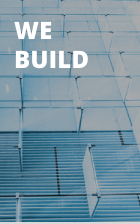
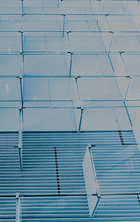
add new blocks&fix

diff --git a/index.html b/index.html
@@ -3,7 +3,7 @@
 <head>
     <meta charset="UTF-8">
     <meta name="viewport" content="width=device-width, initial-scale=1.0">
-    <title>Document</title>
+    <title>KONSTUCT</title>
     <link rel="stylesheet" href="css/normalize.css">
     <link rel="stylesheet" href="css/style.css">
     <link rel="preconnect" href="https://fonts.googleapis.com">
@@ -12,7 +12,7 @@
 </head>
 <body>
     <div class="bg">
-        <img src="img/bg.jpg" alt="bg" class="bg">
+        <img class="bg" src="img/bg.jpg" alt="bg">
     </div>
     <div class="container_bg">
         <div class="logo"><img src="img/logo.png" alt="logo"></div>
@@ -65,12 +65,20 @@
                             consectetuer adipiscing elit, sed diam nonummy 
                             nibh euismod tincidunt ut laoreet dolore magna aliquam erat.
                         </p>
-                        
                     </div>
                     <div class="hero_image">
-                        <img src="img/plan.jpg" alt="plan">
-                        <img src="img/manage.jpg" alt="manage">
-                        <img src="img/deliver.jpg" alt="deliver">
+                        <div class="hero_plan">
+                            WE <br>
+                            PLAN
+                        </div>
+                        <div class="hero_manage">
+                            WE <br>
+                            MANAGE
+                        </div>
+                        <div class="hero_deliver">
+                            WE <br>
+                            BUILD
+                        </div>
                     </div>
                 </div>
             </div>
@@ -94,7 +102,7 @@
                             </div>
                         </div>
                     </div>
-                    <button class="btn_adv">ALL SERVICES</button>
+                    <button class="btn"><a href="">ALL SERVICES</a></button>
                 </div>
                 <div class="advantages_row">
                     <div class="advantages_item_container">
@@ -130,6 +138,27 @@
                 </div>
             </div>
         </div>
+    </div>
+    <div class="bg_touch">
+        <img class="bg_touch" src="img/bg_touch.jpg" alt="bg_touch">
+    </div>
+    <div class="container_bg_touch">
+        <div class="tittle_touch">Want to build <br>
+            something amazing?
+        </div>
+        <button class="btn"><a href="\">GET IN TOUCH</a></button>
+    </div>
+    <div class="signup">
+        <div class="container">
+            <div class="container_sign">
+                <div class="sign_tittle">Newsletter Signup</div>
+                <div class="sign">
+                    <input class="custom-input" type="text" placeholder="Enter email...">
+                    <button class="btn"><a href="\">SIGNUP</a></button>
+                </div>
+            </div>
+        </div>
+        
     </div>
 </body>
 </html>

diff --git a/css/style.css b/css/style.css
@@ -4,7 +4,7 @@ body {
 }
 
 .container_bg {
-    padding: 41px 0 71px 0;
+    padding: 41px 0 71px;
     height: 100vh;
     display: flex;
     flex-direction: column;
@@ -164,6 +164,48 @@ body {
     justify-content: space-between;
     gap: 20px;
 }
+.hero_plan{
+    padding: 15px;
+    width: 140px;
+    height: 224px;
+    font-weight: 800;
+    font-size: 24px;
+    line-height: 121%;
+    letter-spacing: 0.01em;
+    color: #fff;
+    background-image: url('../img/plan.jpg');
+    box-sizing: border-box;
+}
+
+.hero_manage{
+    padding: 15px;
+    width: 140px;
+    height: 224px;
+    font-weight: 800;
+    font-size: 24px;
+    line-height: 121%;
+    letter-spacing: 0.01em;
+    color: #fff;
+    background-image: url('../img/manage.jpg');
+    box-sizing: border-box;
+}
+
+.hero_deliver{
+    padding: 15px;
+    width: 140px;
+    height: 224px;
+    font-weight: 800;
+    font-size: 24px;
+    line-height: 121%;
+    letter-spacing: 0.01em;
+    color: #fff;
+    background-image: url('../img/deliver.jpg');
+    box-sizing: border-box;
+}
+
+.advantages{
+    margin-bottom: 115px;
+}
 
 .advantages_row {
     display: flex;
@@ -240,8 +282,11 @@ body {
     letter-spacing: 0.02em;
     color: #48555b;
 }
-
-.btn_adv {
+a{
+    all: unset;
+    cursor: pointer;
+}
+.btn {
     font-weight: 700;
     font-size: 13px;
     letter-spacing: 0.04em;
@@ -255,7 +300,69 @@ body {
     transition: 0.3s;
 }
 
-.btn_adv:hover {
+.btn:hover {
     background-color: white;
     color: #00a4e5;
 }
+
+.bg_touch {
+    position: absolute;
+    width: 100%;
+    height: 499px;
+    z-index: 1;
+}
+
+.container_bg_touch {
+    padding: 120px 0 241px;
+    height: 499px;
+    display: flex;
+    flex-direction: column;
+    justify-content: space-between;
+    align-items: center;
+    text-align: center;
+    position: relative;
+    z-index: 100;
+    box-sizing: border-box;
+}
+
+.tittle_touch{
+    font-weight: 700;
+    font-size: 30px;
+    line-height: 120%;
+    letter-spacing: 0.01em;
+    text-align: center;
+    color: #48555b;
+}
+
+.signup{
+    background-color: #171819;
+    z-index: 100;
+}
+.container_sign{
+    min-height: 100px;
+    display: flex;
+    align-items: center;
+    justify-content: center;
+    gap: 70px;
+}
+.sign_tittle{
+    font-weight: 700;
+    font-size: 22px;
+    letter-spacing: 0.04em;
+    text-align: center;
+    color: #fff;
+}
+.custom-input{
+    margin-right: -5px;
+    width: 250px;
+    height: 38px;
+    border: none;
+    padding-left: 16px;
+    text-align:left;
+    font-family: "Open Sans", sans-serif;
+    font-weight: 400;
+    font-size: 14px;
+    letter-spacing: 0.01em;
+    color: #48555b;
+}
+
